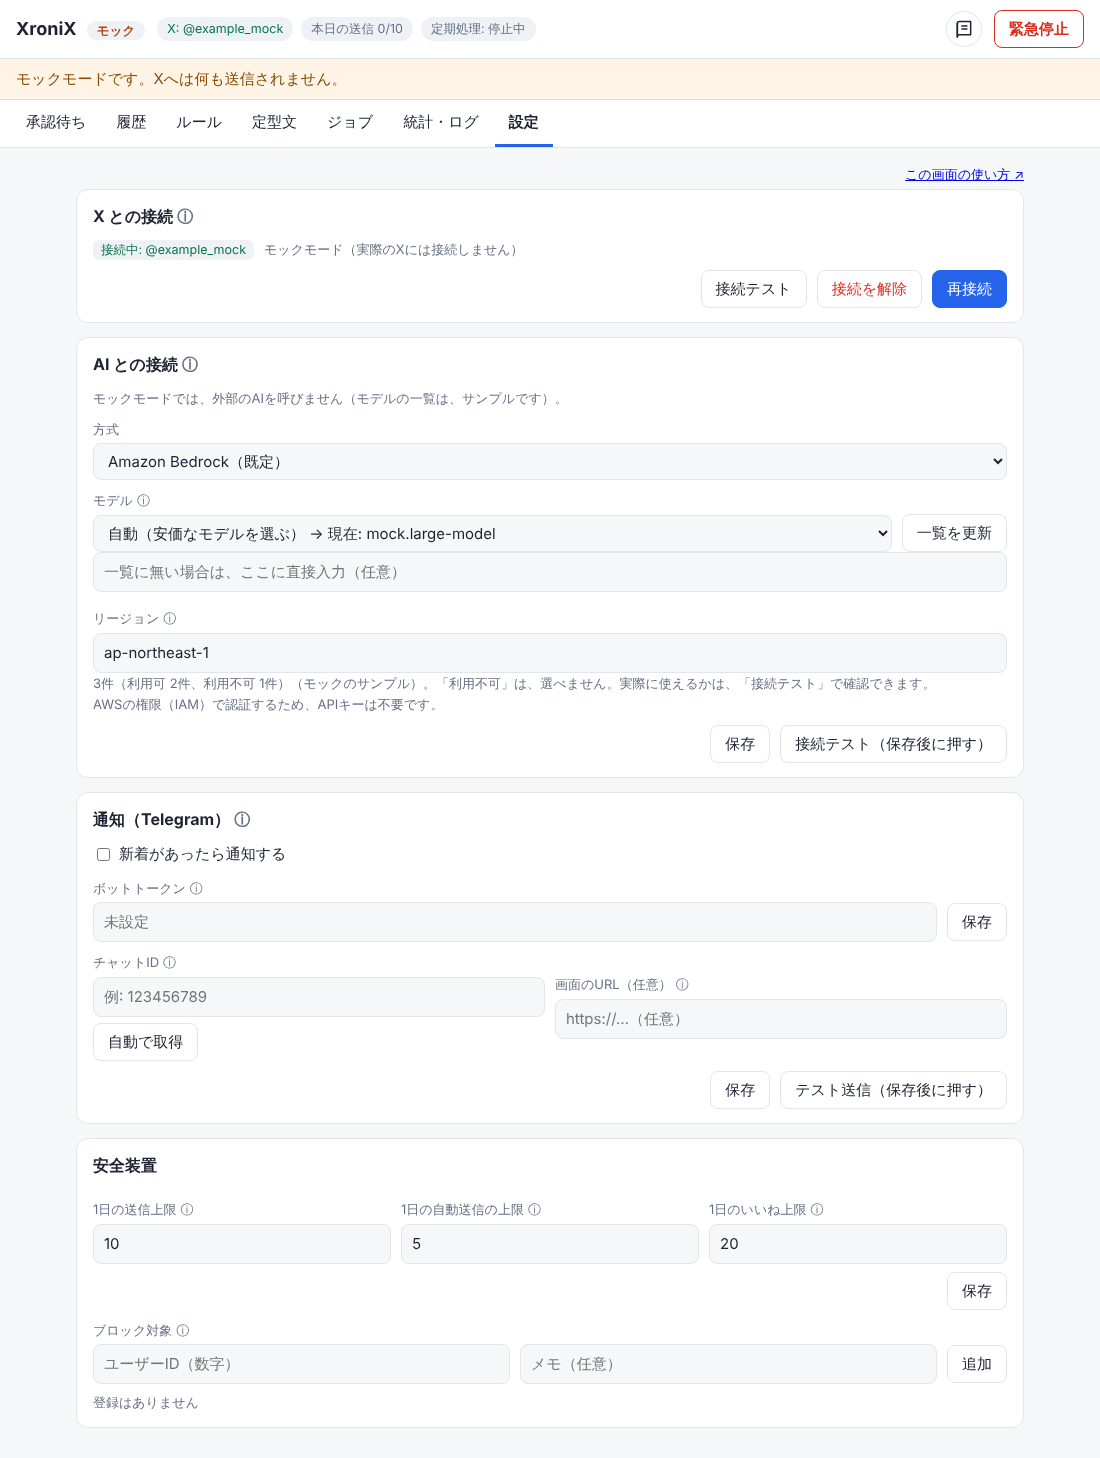
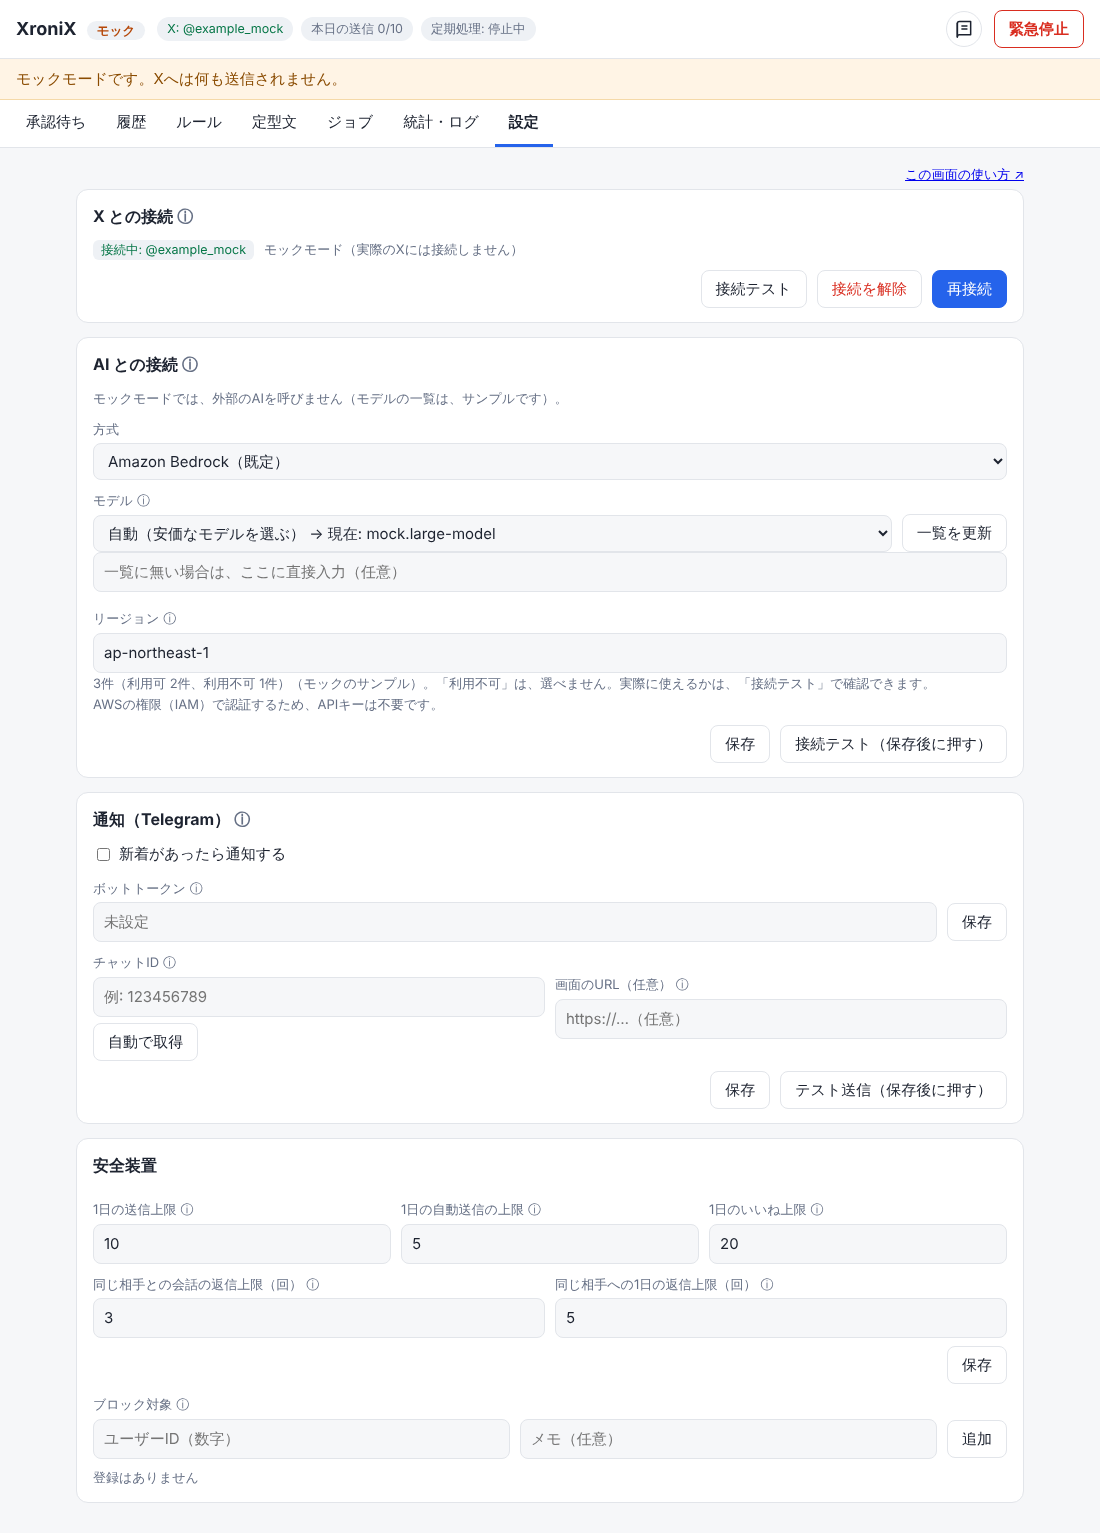
同じ相手との会話に上限を置く（会話ごと3回、1日5回） (#19)
- 同じ相手との同じ会話での返信、同じ相手への1日の返信の上限。超えたら、ルールによる返信案づくりと自動送信を止める（人が承認する送信は止めない）
- 設定の「安全装置」に追加。反応は履歴に残り、理由が出る
- ADR-0018、マニュアル、テスト

Claude-Session: https://claude.ai/code/session_01EWXvrpRutDAh6miq8xhc1r

diff --git a/web/app.js b/web/app.js
@@ -407,6 +407,8 @@ async function renderSettings() {
   const lim = h("input", { type: "number", min: 0, max: 100 }); lim.value = s.safety.daily_limit;
   const likeLim = h("input", { type: "number", min: 0, max: 100 }); likeLim.value = s.safety.like_daily_limit;
   const autoLim = h("input", { type: "number", min: 0, max: 100 }); autoLim.value = s.safety.auto_daily_limit;
+  const convLim = h("input", { type: "number", min: 1, max: 50 }); convLim.value = s.safety.conversation_reply_limit;
+  const authorLim = h("input", { type: "number", min: 1, max: 50 }); authorLim.value = s.safety.author_daily_limit;
   const { items: blocks } = await api("GET", "/api/blocklist");
   const bid = h("input", { type: "text", placeholder: "ユーザーID（数字）" }), bnote = h("input", { type: "text", placeholder: "メモ（任意）" });
   const scard = h("div", { class: "card" }, h("h3", {}, "安全装置"),
@@ -414,7 +416,10 @@ async function renderSettings() {
       h("div", { class: "grow" }, lbl("1日の送信上限", "承認した返信と、自動送信を合わせた、1日の上限です。日本時間の0時に数え直します。超える送信は拒否されます。"), lim),
       h("div", { class: "grow" }, lbl("1日の自動送信の上限", "ルールで「承認なしで送信」したものの上限です。超えた分は、承認待ちに入ります。0なら、自動送信を止めます。"), autoLim),
       h("div", { class: "grow" }, lbl("1日のいいね上限", "ルールで付ける、いいねの上限です。大量のいいねは、スパム判定の原因になります。0なら、いいねを止めます。"), likeLim)),
-    h("div", { class: "row end", style: "margin:8px 0" }, h("button", { onclick: async () => { await act(() => api("PUT", "/api/settings/safety", { daily_limit: Number(lim.value), auto_daily_limit: Number(autoLim.value), like_daily_limit: Number(likeLim.value) }), "保存しました"); refreshStatus(); } }, "保存")),
+    h("div", { class: "row" },
+      h("div", { class: "grow" }, lbl("同じ相手との会話の返信上限（回）", "同じ相手に、同じ会話の中で返信した回数の上限です。超えると、ルールによる返信案づくりと自動送信を止めます（人が承認する送信は止めません）。相手が返信を繰り返す場合や、相手も自動返信の場合に、会話が終わらなくなることを防ぎます。"), convLim),
+      h("div", { class: "grow" }, lbl("同じ相手への1日の返信上限（回）", "同じ相手に、1日（日本時間）に返信した回数の上限です。会話をまたいで数えます。超えると、ルールによる返信案づくりと自動送信を止めます。"), authorLim)),
+    h("div", { class: "row end", style: "margin:8px 0" }, h("button", { onclick: async () => { await act(() => api("PUT", "/api/settings/safety", { daily_limit: Number(lim.value), auto_daily_limit: Number(autoLim.value), like_daily_limit: Number(likeLim.value), conversation_reply_limit: Number(convLim.value), author_daily_limit: Number(authorLim.value) }), "保存しました"); refreshStatus(); } }, "保存")),
     lbl("ブロック対象", "ここに入れたユーザーには、ルールを実行せず、送信もできません。Xのブロックとは別の、このアプリ内の一覧です。"),
     h("div", { class: "row" }, h("div", { class: "grow" }, bid), h("div", { class: "grow" }, bnote), h("button", { onclick: async () => { if (await act(() => api("POST", "/api/blocklist", { author_id: bid.value, note: bnote.value }), "追加しました")) renderSettings(); } }, "追加")),
     blocks.length ? h("table", {}, blocks.map((b) => h("tr", {}, h("td", {}, b.id), h("td", {}, b.note), h("td", {}, fmt(b.created_at)), h("td", {}, h("button", { class: "danger", onclick: async () => { await act(() => api("DELETE", `/api/blocklist/${b.id}`)); renderSettings(); } }, "解除"))))) : h("div", { class: "muted", style: "margin-top:8px" }, "登録はありません"));

diff --git a/web/manual.html b/web/manual.html
@@ -308,6 +308,7 @@ svg text{font-family:system-ui,"Hiragino Sans","Noto Sans JP",sans-serif;fill:#1
 <tr><td>1日の送信上限</td><td>超えると、送信を拒否します。</td></tr>
 <tr><td>自動送信の上限</td><td>超えた分は、承認待ちに回ります。</td></tr>
 <tr><td>いいねの上限</td><td>超えるといいねを止めます。失敗は数えません。</td></tr>
+<tr><td>会話の上限</td><td>同じ相手との、同じ会話での返信（既定3回）と、同じ相手への1日の返信（既定5回）の上限です。超えると、ルールによる返信案づくりと自動送信を止めます（人が承認する送信は止めません）。相手が返信を繰り返す場合や、相手も自動返信の場合に、会話が終わらなくなることを防ぎます。反応は履歴に残り、理由が出ます。</td></tr>
 <tr><td>ブロック対象</td><td>返信しない相手です。</td></tr>
 <tr><td>リンク禁止</td><td>返信文にURLがあると、送れません（費用が約13倍になるため）。</td></tr>
 <tr><td>緊急停止</td><td>画面右上のボタン1つで、取得と送信を止めます。</td></tr>

diff --git a/tests/test_flow.py b/tests/test_flow.py
@@ -524,3 +524,59 @@ def test_conversation_search_failure_keeps_job_ok_and_retries_later(app):
     r = run(app)
     assert r["status"] == "ok" and any("返信の補完（会話の検索）に失敗" in l["message"] for l in app.repo.list("logs"))
     assert p["id"] not in (app.repo.get("state", "reply_counts") or {})   # 失敗したら、数を覚えない（次回、やり直す）
+
+
+# --- 会話が終わらなくなることを避ける上限 ---
+def _sent(app, mid, author="1000", conv="1800000000000000000", when=None):
+    from xronix.common import iso
+    app.repo.put("mentions", mid, {"id": mid, "author_id": author, "conversation_id": conv, "state": "sent", "kind": "reply_to_post",
+                                    "sent_at": when or iso(app.now()), "updated_at": when or iso(app.now())})
+
+
+def _last(app, state=None):
+    return [m for m in mentions(app, state) if m["id"].isdigit()][-1]
+
+
+def test_conversation_reply_limit_stops_drafts_for_same_person(app):
+    start(app)
+    app.settings.update("safety", {"conversation_reply_limit": 2, "author_daily_limit": 50})
+    _sent(app, "s1"); _sent(app, "s2")
+    add(app, "可愛い投稿ありがとうございます！", authors=["1000"])
+    r = run(app)
+    m = _last(app)
+    assert r["new"] == 1 and m["state"] == "done" and m["draft_text"] == "" and m["limit_reached"] is True
+    assert any("上限（2回）" in a["detail"] for a in m["actions"]) and r["drafted"] == 0
+    # 別の人には、返信案を作る
+    add(app, "可愛い投稿ありがとうございます！", authors=["2000"])
+    run(app)
+    assert _last(app, "pending")["author_id"] == "2000"
+
+
+def test_author_daily_limit_counts_across_conversations_and_resets_next_day(app, clock):
+    start(app)
+    app.settings.update("safety", {"conversation_reply_limit": 50, "author_daily_limit": 2})
+    _sent(app, "s1", conv="a"); _sent(app, "s2", conv="b")
+    add(app, "可愛い！ありがとうございます", authors=["1000"])
+    run(app)
+    assert _last(app)["limit_reached"] is True and any("今日の返信が上限" in a["detail"] for a in _last(app)["actions"])
+    clock.advance(minutes=60 * 30)  # 翌日（日本時間）になれば、数え直す
+    add(app, "可愛い！ありがとうございます", authors=["1000"])
+    run(app)
+    assert _last(app).get("limit_reached") is None and _last(app)["state"] == "pending"
+
+
+def test_limits_apply_to_auto_send_and_validate(app):
+    from xronix.settings import ValidationError
+    api = start(app)
+    for bad in (0, 51):
+        with pytest.raises(ValidationError):
+            app.settings.update("safety", {"conversation_reply_limit": bad})
+        with pytest.raises(ValidationError):
+            app.settings.update("safety", {"author_daily_limit": bad})
+    rule = app.rules.create({"name": "自動", "events": ["reply_to_post"], "categories": ["fan"], "actions": [{"type": "send_reply", "source": "template"}]})
+    app.settings.update("safety", {"conversation_reply_limit": 1})
+    _sent(app, "s1")
+    add(app, "可愛い投稿ありがとうございます！", authors=["1000"])
+    run(app)
+    assert app.x.sent == [] and _last(app)["limit_reached"] is True
+    assert rule["id"]

diff --git a/src/xronix/settings.py b/src/xronix/settings.py
@@ -12,7 +12,8 @@ DEFAULTS: dict[str, dict] = {
     },
     "job": {"enabled": False, "interval_minutes": 60, "jitter_minutes": 0, "initial_mode": "from_now", "max_pages": 3,
             "metrics_interval_minutes": 360, "metrics_window_days": 7, "metrics_max_posts": 20, "wide_fetch": True, "verbose_log": True},
-    "safety": {"kill_switch": False, "daily_limit": 10, "like_daily_limit": 20, "auto_daily_limit": 5},
+    "safety": {"kill_switch": False, "daily_limit": 10, "like_daily_limit": 20, "auto_daily_limit": 5,
+               "conversation_reply_limit": 3, "author_daily_limit": 5},
     "notify": {"telegram_enabled": False, "telegram_chat_id": "", "site_url": ""},
 }
 
@@ -22,7 +23,8 @@ SCHEMA: dict[str, dict[str, type]] = {
     "ai": {"provider": str, "bedrock_model": str, "bedrock_region": str, "openai_model": str, "openai_base_url": str},
     "job": {"enabled": bool, "interval_minutes": int, "jitter_minutes": int, "initial_mode": str, "max_pages": int,
             "metrics_interval_minutes": int, "metrics_window_days": int, "metrics_max_posts": int, "wide_fetch": bool, "verbose_log": bool},
-    "safety": {"kill_switch": bool, "daily_limit": int, "like_daily_limit": int, "auto_daily_limit": int},
+    "safety": {"kill_switch": bool, "daily_limit": int, "like_daily_limit": int, "auto_daily_limit": int,
+               "conversation_reply_limit": int, "author_daily_limit": int},
     "notify": {"telegram_enabled": bool, "telegram_chat_id": str, "site_url": str},
 }
 
@@ -99,6 +101,9 @@ class Settings:
             for k, label in (("daily_limit", "1日の送信上限"), ("like_daily_limit", "1日のいいね上限"), ("auto_daily_limit", "1日の自動送信の上限")):
                 if not 0 <= cur[k] <= 100:
                     raise ValidationError(f"{label}は0〜100で指定してください")
+            for k, label in (("conversation_reply_limit", "同じ相手との会話の返信上限"), ("author_daily_limit", "同じ相手への1日の返信上限")):
+                if not 1 <= cur[k] <= 50:
+                    raise ValidationError(f"{label}は1〜50で指定してください")
         if section == "ai":
             if not re.fullmatch(r"[a-z]{2}(-[a-z]+)+-\d", cur["bedrock_region"]):
                 raise ValidationError("Bedrockのリージョンは ap-northeast-1 のような形式で指定してください")

diff --git a/src/xronix/limits.py b/src/xronix/limits.py
@@ -1,0 +1,43 @@
+"""会話が終わらなくなることを防ぐ上限。同じ相手への返信の回数を数える。
+
+相手が返信を繰り返す、または相手も似た仕組みで自動返信している場合、会話が際限なく続くことがある。
+ルールによる返信案づくりと、自動送信は、次の2つの上限を超えたら止める（人が承認する送信は、止めない）。
+"""
+from __future__ import annotations
+
+from .common import jst_date, parse_iso
+
+COUNTED = ("sent", "sending", "send_queued")  # 送った・送信中・送信待ち（キュー）
+
+
+def _when(m: dict) -> str:
+    return m.get("sent_at") or m.get("updated_at") or ""
+
+
+def count_replies(repo, now, author_id: str, conversation_id: str = "", exclude_id: str = "") -> tuple[int, int]:
+    """(同じ会話での、この相手への返信数, 今日（日本時間）の、この相手への返信数)。"""
+    today = jst_date(now)
+    in_conv = today_n = 0
+    for m in repo.list("mentions"):
+        if m.get("id") == exclude_id or m.get("author_id") != author_id or m.get("state") not in COUNTED:
+            continue
+        if conversation_id and m.get("conversation_id") == conversation_id:
+            in_conv += 1
+        w = _when(m)
+        if w and jst_date(parse_iso(w)) == today:
+            today_n += 1
+    return in_conv, today_n
+
+
+def reached(repo, settings, now, item: dict) -> str:
+    """上限に達していれば、その理由（日本語）。達していなければ空。"""
+    aid = item.get("author_id", "")
+    if not aid or item.get("metric"):
+        return ""
+    s = settings.get("safety")
+    in_conv, today_n = count_replies(repo, now, aid, item.get("conversation_id", ""), item.get("id", ""))
+    if in_conv >= s["conversation_reply_limit"]:
+        return f"同じ相手との、この会話での返信が上限（{s['conversation_reply_limit']}回）に達しているため、返信しませんでした（会話が終わらなくなることを避けるため）"
+    if today_n >= s["author_daily_limit"]:
+        return f"同じ相手への、今日の返信が上限（{s['author_daily_limit']}回）に達しているため、返信しませんでした"
+    return ""

diff --git a/src/xronix/actions.py b/src/xronix/actions.py
@@ -10,6 +10,7 @@ from __future__ import annotations
 
 from .classify import FAN, LABELS as CATEGORY_LABELS, QUESTION
 from .common import iso, jst_date, utcnow
+from . import limits
 from .events import LABELS as EVENT_LABELS
 from .rules import ACTION_LABELS, REPLY_ACTIONS
 from .sender import SendRefused
@@ -129,6 +130,11 @@ class ActionEngine:
 
     def _reply(self, item: dict, a: dict, run: dict | None) -> dict:
         t = a["type"]
+        stop = limits.reached(self.repo, self.settings, self.now(), item)  # 会話が終わらなくなることを避ける（返信案も作らない）
+        if stop:
+            item.update(draft_text="", draft_template_id="", state="done", limit_reached=True)
+            self.log.info("action", stop, mention_id=item["id"])
+            return _res(t, True, stop)
         draft, tpl_id, why = self._draft(item, a, run)
         if run is not None and draft:
             run["drafted"] = run.get("drafted", 0) + 1

diff --git a/docs/adr/0018-conversation-limits.md b/docs/adr/0018-conversation-limits.md
@@ -1,0 +1,24 @@
+# ADR-0018 同じ相手との会話に上限を置く
+
+状態: 採用　日付: 2026-10-18
+
+## 背景
+
+同じ相手が返信を繰り返す場合や、相手も似た自動返信の仕組みを使っている場合、返信が返信を呼び、会話が際限なく続く。送信の費用がかさむだけでなく、スパムとみなされる恐れがある。
+
+## 決定
+
+| 上限 | 既定 | 数え方 |
+| --- | --- | --- |
+| 同じ相手との、同じ会話での返信 | 3回 | 会話ID＋相手のユーザーIDが同じ、送った・送信中・送信待ちの返信 |
+| 同じ相手への、1日の返信 | 5回 | 相手のユーザーIDが同じ、今日（日本時間）の返信。会話をまたいで数える |
+
+- 範囲は、どちらも1〜50（上限なしにはできない。安全装置のため）。設定の「安全装置」で変える。
+- 上限に達したら、ルールによる返信案づくり（定型文・AI）と、自動送信を止める。AIを呼ばないので、費用もかからない。反応は「履歴」に残り、アクションの結果に理由が出る。
+- 人が承認する送信は、止めない（運用者の判断を優先）。
+- 自投稿の数値のルール（投稿者が自分）には、適用しない。
+
+## 結果と制約
+
+- 数えるのは、このアプリが送った返信だけ。Xの画面から、手で返信した分は数えない。
+- 相手が別のアカウントに切り替えた場合は、別人として数える。

diff --git a/docs/arc42/08-crosscutting-concepts.md b/docs/arc42/08-crosscutting-concepts.md
@@ -17,6 +17,7 @@
 | リンク禁止 | 返信文にURLがあれば送信を拒否（料金約13倍の回避） |
 | 自動送信の上限 | 承認なしの送信は、1日の自動送信の上限（既定5件）に加え、全体の送信上限・緊急停止・ブロック対象の検査を通る。超えたら承認待ちに回す |
 | いいねの上限 | 1日のいいね上限（既定20件）。失敗は数えない |
+| 会話の上限 | 同じ相手との同じ会話での返信（既定3回）と、同じ相手への1日の返信（既定5回）の上限。超えたら、返信案づくりと自動送信を止める（ADR-0018） |
 | 対象の限定 | 自分の投稿に付いた返信、または自分へのメンションのみ |
 
 ## 読み取りのリトライ

diff --git a/docs/arc42/09-architecture-decisions.md b/docs/arc42/09-architecture-decisions.md
@@ -21,3 +21,4 @@
 | [0015](../adr/0015-bedrock-model-list.md) | Bedrockのモデルを、使える一覧から選び、既定は安価なモデルを自動で選ぶ | 採用 |
 | [0016](../adr/0016-wide-fetch.md) | 取得範囲を広げる（自分の@が無い返信、引用）。詳細ログ | 採用 |
 | [0017](../adr/0017-cognito-login.md) | ログインをCognitoにし、Basic認証を廃止する | 採用 |
+| [0018](../adr/0018-conversation-limits.md) | 同じ相手との会話に上限を置く | 採用 |
